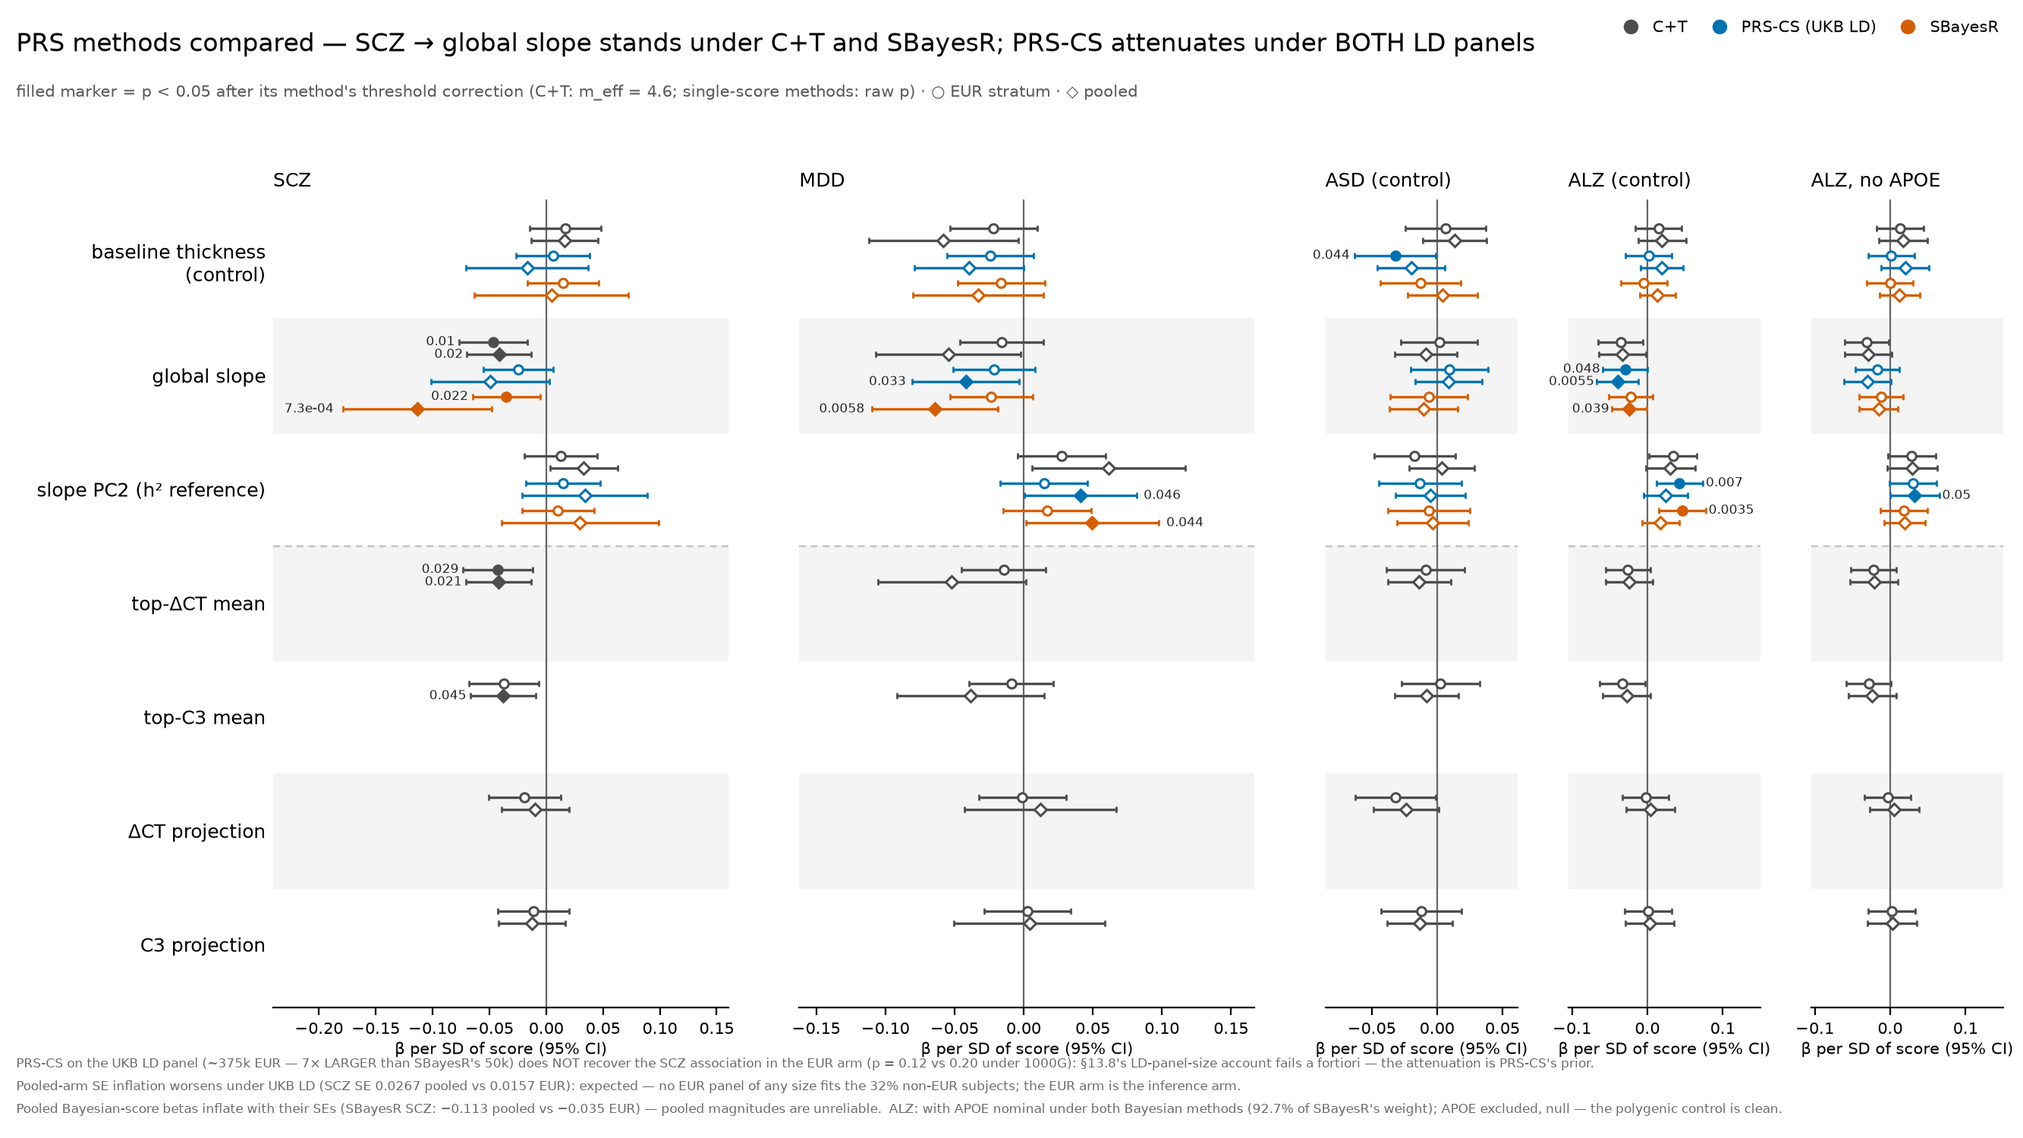
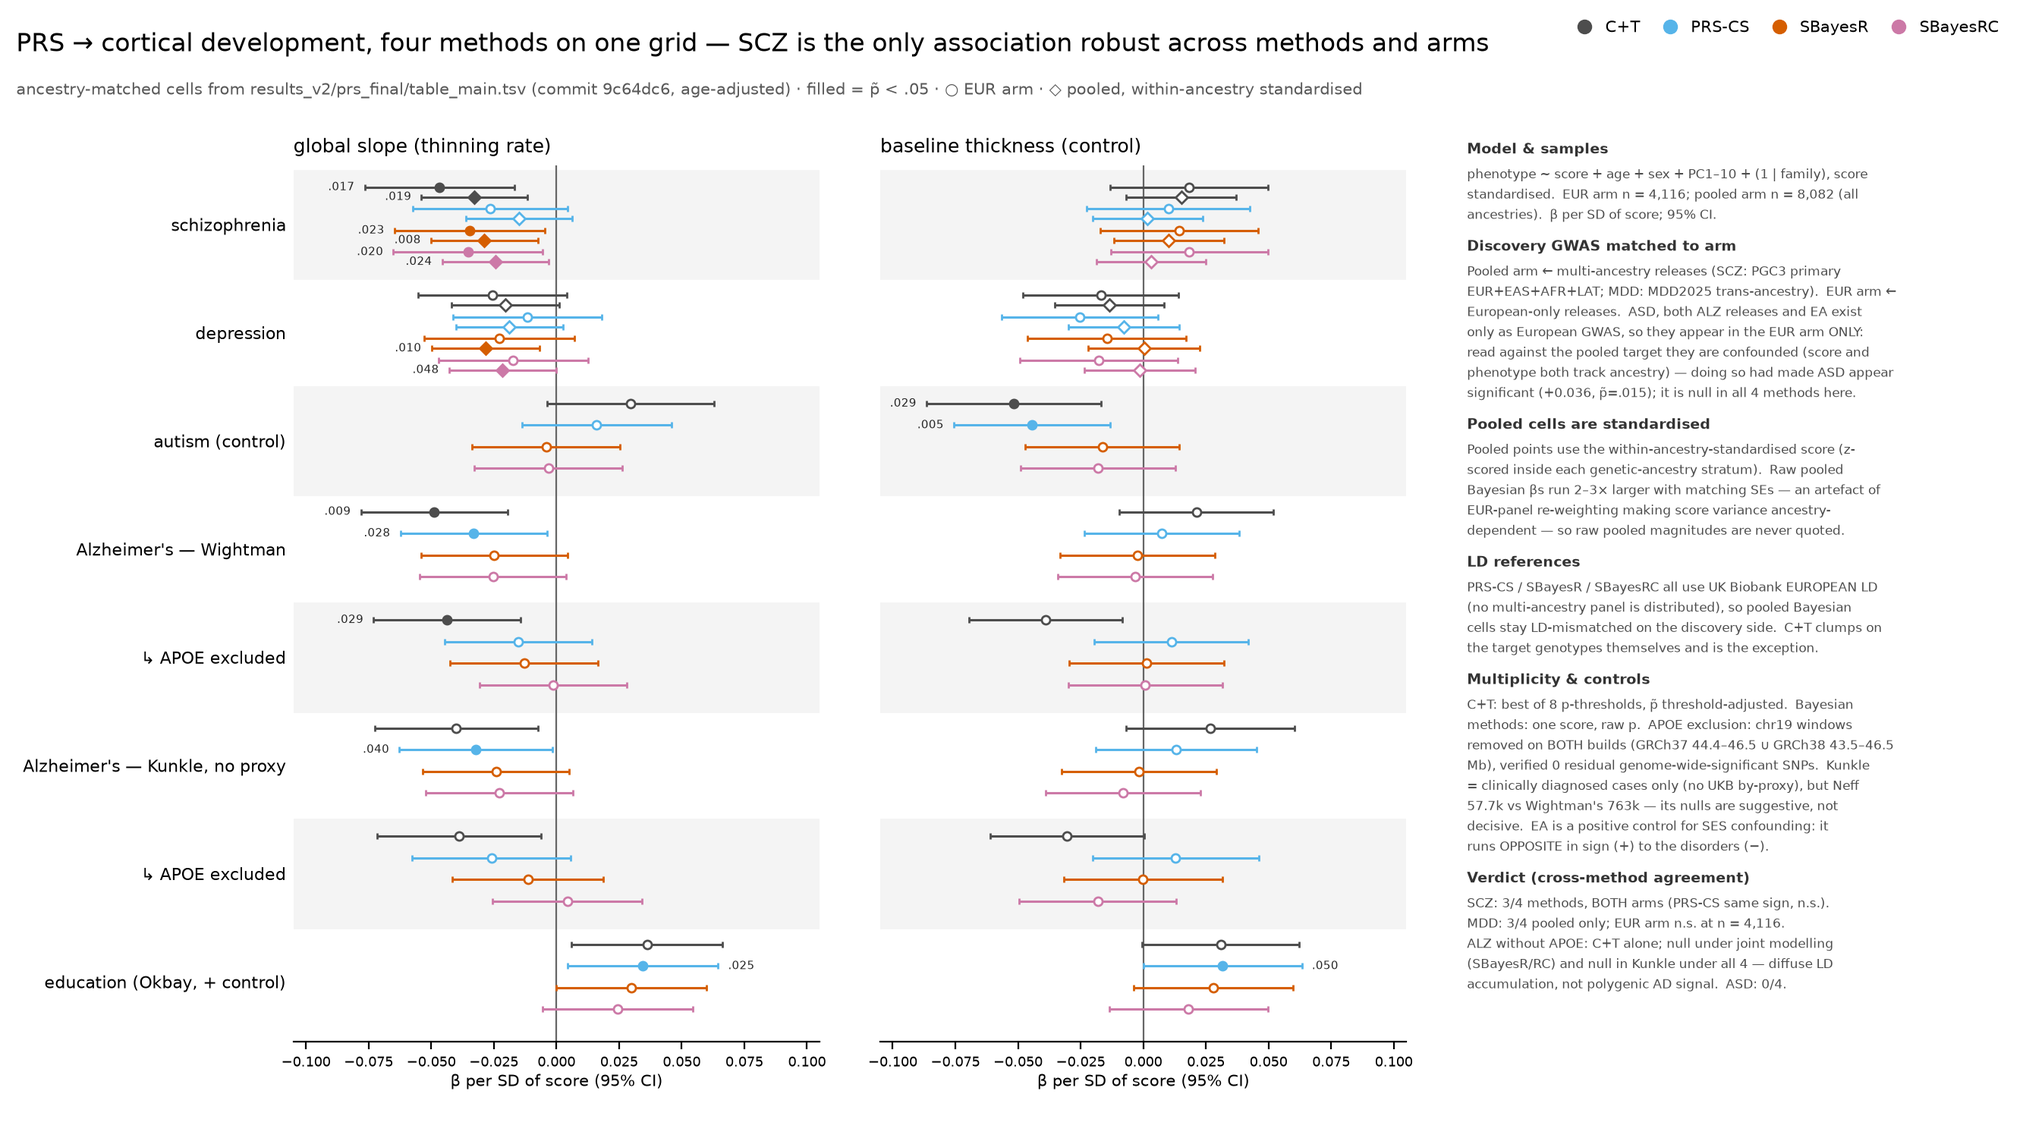
hpc_v3: methods slide rebuilt from the completed prs_final grid
Full rewrite: the previous slide compared methods whose discovery GWAS
differed (the confound ff63dd8 removed) and predates the age fix, the
frequency fix and the matched-stratum rule -- nothing from it should be
quoted. The new slide reads ONLY prs_final/table_main.tsv (9c64dc6, 40/40
cells, age-adjusted).

Layout per user request: GWAS traits as facet rows (SCZ, MDD, ASD, ALZ
Wightman +/- APOE, ALZ Kunkle +/- APOE, EA), phenotypes as columns (global
slope, baseline thickness; the four Experiment A phenotypes dropped for now),
and a reading-guide column replacing footnotes: model spec, the
discovery-to-arm matching rule and why EUR-only controls never appear in the
pooled arm (the ASD false positive), why pooled cells are within-ancestry
standardised (raw pooled Bayesian betas inflate 2-3x), the shared UKB-EUR LD
reference caveat, multiplicity conventions, the two-build APOE exclusion,
Kunkle's power asymmetry, EA's opposite sign, and the cross-method-agreement
verdict.

Cell selection is the honest subset: matched cells only; pooled = zanc score
only. SCZ and MDD carry both arms (circle EUR, diamond pooled-standardised);
EUR-only traits carry the EUR arm alone.

diff --git a/hpc_v3/slide_prs_methods.py b/hpc_v3/slide_prs_methods.py
@@ -1,28 +1,22 @@
-"""Slide: the three PRS methods (C+T, PRS-CS, SBayesR) side by side.
+"""Slide: the four-method PRS grid (C+T, PRS-CS, SBayesR, SBayesRC).
 
 Usage (repo root):  python hpc_v3/slide_prs_methods.py
 
-Context (hpc_v2/README_HPC.md §13.5 → §13.8): §13.5 concluded the SCZ →
-global_slope association "does not survive a method without threshold
-selection" from PRS-CS alone; SBayesR — a second untuned method, with a
-50,000-individual LD reference against PRS-CS's 503 — reverses that reading.
-This slide puts the three methods on one axis for every phenotype each has
-been scored on, POOLED stratum (the only stratum the SBayesR record covers).
+Reads ONLY hpc_v2/work/results_v2/prs_final/table_main.tsv -- the canonical
+grid built by collect_final.py (commit 9c64dc6: 40 cells complete, age
+covariate restored, discovery GWAS matched to target arm).  Layout: GWAS
+traits as facet rows, phenotypes as columns, a reading-guide column on the
+right carrying the caveats a reader seeing only this slide needs.
 
-Sources (all committed):
-  C+T      hpc_v3/prs_tables/prs_association_v3.tsv  (p<0.5 score; imputed;
-           p̃ = p x m_eff, m_eff = 4.6, as on slide_results_v3)
-  PRS-CS   hpc_v2/work/results_v2/prscs/prs_association_<DIS>_prscs.tsv
-           (threshold "auto"; single score, no correction needed)
-  SBayesR  hpc_v3/prs_tables/prs_sbayesr_readme.tsv — transcribed from
-           hpc_v2/README_HPC.md §13.8 (the association tables live on CSD3
-           and are not yet committed).  SEs are RECONSTRUCTED from beta and p
-           via the normal quantile, se = |beta| / Phi^-1(1 - p/2) — exact for
-           a Wald z test, so intervals are faithful to the reported p.
+Cell selection (the honest subset, per README 14.8):
+  * matched cells only -- EUR-only discovery GWAS are never read against the
+    pooled target (that mismatch produced the ASD false positive);
+  * pooled cells are shown WITHIN-ANCESTRY STANDARDISED (score='zanc') --
+    raw pooled Bayesian betas inflate 2-3x with their SEs because EUR-panel
+    re-weighting makes score variance ancestry-dependent.
 
-The four Experiment A phenotypes exist under C+T only — PRS-CS and SBayesR
-have not been scored against them (single-score files exist on CSD3; a
-one-line assoc job would fill them).
+Superseded versions of this slide (pre-ff63dd8) compared methods whose
+discovery GWAS differed; nothing from them should be quoted.
 
 Output: hpc_v3/slide_prs_methods.png  (13.333 x 7.5 in, dpi 200)
 """
@@ -33,189 +27,184 @@ from pathlib import Path
 
 import matplotlib as mpl
 import matplotlib.pyplot as plt
-import numpy as np
 import pandas as pd
-from scipy.stats import norm
 
 HERE = Path(__file__).resolve().parent
 REPO = HERE.parent
+TABLE = REPO / "hpc_v2/work/results_v2/prs_final/table_main.tsv"
 
 BASE, MID, SMALL = 10.5, 9.0, 7.5
-M_EFF = 4.6
 
-PHENOS = ["baseline_thickness", "global_slope", "slope_PC2",
-          "slope_topDelta", "slope_topC3", "slope_projDelta", "slope_projC3"]
-YLAB = ["baseline thickness\n(control)", "global slope",
-        "slope PC2 (h² reference)", "top-ΔCT mean", "top-C3 mean",
-        "ΔCT projection", "C3 projection"]
-N_SETTLED_ROWS = 3          # rule between settled phenotypes and Experiment A
+PHENOS = ["global_slope", "baseline_thickness"]
+PHENO_TITLE = {"global_slope": "global slope (thinning rate)",
+               "baseline_thickness": "baseline thickness (control)"}
 
-#: the 1000G PRS-CS run stays in results_v2/prscs/ for the record but is not
-#: drawn -- the UKB-LD re-run supersedes it (user decision 2026-09-09; the
-#: 1000G-vs-UKB contrast lives in the footnote and README §13.8 discussion)
-METHODS = ["ct", "prscs_ukbb", "sbayesr"]
-METHOD_LABEL = {"ct": "C+T", "prscs_ukbb": "PRS-CS (UKB LD)",
-                "sbayesr": "SBayesR"}
-METHOD_COLOR = {"ct": "0.30", "prscs_ukbb": "#0072B2", "sbayesr": "#D55E00"}
-DODGE = {"ct": 0.24, "prscs_ukbb": 0.0, "sbayesr": -0.24}
-#: the UKB-LD re-run (hpc_v2 commit 8fe2312's prscs_ukbb.sbatch) -- drawn
-#: automatically once its association tables are pulled from CSD3
-UKBB_DIR = "hpc_v2/work/results_v2/prscs_ukbb"
+#: facet rows, top to bottom: hypothesis traits, then controls
+BANDS = [
+    ("SCZ", "schizophrenia", ("SCZ_eur", "SCZ_pooled")),
+    ("MDD", "depression", ("MDD_eur", "MDD_pooled")),
+    ("ASD", "autism (control)", ("ASD",)),
+    ("ALZ", "Alzheimer's — Wightman", ("ALZ",)),
+    ("ALZ_noAPOE", "  ↳ APOE excluded", ("ALZ_noAPOE",)),
+    ("ALZ_IGAP", "Alzheimer's — Kunkle, no proxy", ("ALZ_IGAP",)),
+    ("ALZ_IGAP_noAPOE", "  ↳ APOE excluded", ("ALZ_IGAP_noAPOE",)),
+    ("EA", "education (Okbay, + control)", ("EA",)),
+]
 
-
-def load() -> pd.DataFrame:
-    rows = []
-    ct = pd.read_csv(REPO / "hpc_v3/prs_tables/prs_association_v3.tsv",
-                     sep="\t")
-    ct = ct[ct.threshold == "0p5"]
-    for _, r in ct.iterrows():
-        rows.append(dict(method="ct", disorder=r.disorder, stratum=r.stratum,
-                         phenotype=r.phenotype, beta=r.beta, se=r.se,
-                         p=r.p, p_corr=min(1.0, r.p * M_EFF), n=r.n))
-    # UKB-LD PRS-CS; note the cluster's filename inconsistency for ALZnoAPOE,
-    # whose file also tags the disorder column 'ALZnoAPOEukbb'
-    ukbb_files = {"SCZ": "prs_association_SCZ_prscs_ukbb.tsv",
-                  "MDD": "prs_association_MDD_prscs_ukbb.tsv",
-                  "ASD": "prs_association_ASD_prscs_ukbb.tsv",
-                  "ALZ": "prs_association_ALZ_prscs_ukbb.tsv",
-                  "ALZnoAPOE": "prs_association_ALZnoAPOE_ukbb.tsv"}
-    for dis, fname in ukbb_files.items():
-        f = REPO / UKBB_DIR / fname
-        if not f.exists():
-            continue
-        cs = pd.read_csv(f, sep="\t")
-        for _, r in cs.iterrows():
-            rows.append(dict(method="prscs_ukbb", disorder=dis,
-                             stratum=r.stratum, phenotype=r.phenotype,
-                             beta=r.beta, se=r.se, p=r.p, p_corr=r.p, n=r.n))
-    # SBayesR: the real association tables (committed 2026-09-09), which
-    # retired the prs_sbayesr_readme.tsv transcription -- values verified
-    # identical where they overlapped
-    sb_files = {"SCZ": "prs_association_SCZ_sbayesr.tsv",
-                "MDD": "prs_association_MDD_sbayesr.tsv",
-                "ASD": "prs_association_ASD_sbayesr.tsv",
-                "ALZ": "prs_association_ALZ_sbayesr.tsv",
-                "ALZnoAPOE": "prs_association_ALZnoAPOE_sbayesr.tsv"}
-    for dis, fname in sb_files.items():
-        f = REPO / "hpc_v2/work/results_v2/sbayesr" / fname
-        if not f.exists():
-            continue
-        sb = pd.read_csv(f, sep="\t")
-        for _, r in sb.iterrows():
-            rows.append(dict(method="sbayesr", disorder=dis,
-                             stratum=r.stratum, phenotype=r.phenotype,
-                             beta=r.beta, se=r.se, p=r.p, p_corr=r.p, n=r.n))
-    return pd.DataFrame(rows)
+# Okabe-Ito, one hue per method (grey = the non-Bayesian baseline)
+METHOD_ORDER = ["CT", "PRSCS", "SBayesR", "SBayesRC"]
+METHOD_LABEL = {"CT": "C+T", "PRSCS": "PRS-CS", "SBayesR": "SBayesR",
+                "SBayesRC": "SBayesRC"}
+METHOD_COLOR = {"CT": "0.30", "PRSCS": "#56B4E9", "SBayesR": "#D55E00",
+                "SBayesRC": "#CC79A7"}
+DODGE = {"CT": 0.30, "PRSCS": 0.10, "SBayesR": -0.10, "SBayesRC": -0.30}
+ARM_MARKER = {"EUR": "o", "pooled": "D"}
+ARM_DODGE = {"EUR": 0.045, "pooled": -0.045}
 
 
 def _fmt_p(p: float) -> str:
-    return f"{p:.1e}" if p < 1e-3 else f"{p:.2g}"
+    return f"{p:.0e}".replace("e-0", "e-") if p < 1e-3 else f"{p:.3f}"[1:]
 
 
-STRATUM_MARKER = {"EUR": "o", "full": "D"}    # matches slide_results_v3
-STRATUM_DODGE = {"EUR": 0.055, "full": -0.055}
+def load() -> pd.DataFrame:
+    t = pd.read_csv(TABLE, sep="\t")
+    t = t[t.phenotype.isin(PHENOS) & (t.matched == "yes")]
+    # pooled arm: standardized score only; EUR arm: raw
+    keep = ((t.target_stratum == "EUR") & (t.score == "raw")) | \
+           ((t.target_stratum == "full") & (t.score == "zanc"))
+    t = t[keep].copy()
+    t["arm"] = t.target_stratum.map({"EUR": "EUR", "full": "pooled"})
+    band_of = {ta: name for name, _, tas in BANDS for ta in tas}
+    t["band"] = t.trait_arm.map(band_of)
+    assert t.band.notna().all(), sorted(t[t.band.isna()].trait_arm.unique())
+    # one row per cell (C+T rows are already the selected best threshold)
+    dup = t.duplicated(["band", "arm", "method", "phenotype"], keep=False)
+    assert not dup.any(), t[dup][["trait_arm", "method", "threshold"]]
+    return t
 
 
-def panel(fig, rect, df, phenos, ylabels, title, show_ylab, xlim=None):
+def panel(fig, rect, d, title, show_ylab):
     ax = fig.add_axes(rect)
-    n = len(phenos)
-    for _, r in df.iterrows():
-        if r.phenotype not in phenos:
-            continue
-        y = (n - 1 - phenos.index(r.phenotype)) + DODGE[r.method] \
-            + STRATUM_DODGE[r.stratum]
+    n = len(BANDS)
+    for _, r in d.iterrows():
+        bi = [b[0] for b in BANDS].index(r.band)
+        y = (n - 1 - bi) + DODGE[r.method] + ARM_DODGE[r.arm]
         c = METHOD_COLOR[r.method]
+        sig = r.p_adj < 0.05
         ax.errorbar(r.beta, y, xerr=1.96 * r.se, fmt="none", ecolor=c,
-                    elinewidth=1.2, capsize=1.5, zorder=2)
-        ax.plot(r.beta, y, STRATUM_MARKER[r.stratum], ms=4.2,
-                mfc=c if r.p_corr < 0.05 else "white",
-                mec=c, mew=1.1, zorder=3)
-        if r.p_corr < 0.05:
+                    elinewidth=1.1, capsize=1.5, zorder=2)
+        ax.plot(r.beta, y, ARM_MARKER[r.arm], ms=4.0,
+                mfc=c if sig else "white", mec=c, mew=1.0, zorder=3)
+        if sig:
             sgn = 1 if r.beta >= 0 else -1
-            ax.text(r.beta + sgn * r.se * 1.96 * 1.12, y, _fmt_p(r.p_corr),
-                    fontsize=SMALL - 1.5, ha="left" if sgn > 0 else "right",
+            ax.text(r.beta + sgn * (1.96 * r.se + 0.004), y, _fmt_p(r.p_adj),
+                    fontsize=SMALL - 2, ha="left" if sgn > 0 else "right",
                     va="center", color="0.15", zorder=4)
+    ax.set_ylim(-0.55, n - 0.45)
     for i in range(n):
         if i % 2 == 1:
             ax.axhspan(i - 0.5, i + 0.5, color="0.955", zorder=0)
-    if n > N_SETTLED_ROWS and phenos is PHENOS:
-        ax.axhline(n - N_SETTLED_ROWS - 0.5, color="0.75", lw=0.8,
-                   ls=(0, (4, 3)), zorder=1)
     ax.axvline(0, color="0.4", lw=0.8, zorder=1)
-    ax.set_ylim(-0.55, n - 0.45)
+    ax.set_xlim(-0.105, 0.105)
     ax.set_yticks(range(n))
-    ax.set_yticklabels(ylabels[::-1] if show_ylab else [],
-                       fontsize=MID if show_ylab else 0)
-    ax.set_xlabel("β per SD of score (95% CI)", fontsize=SMALL, labelpad=2)
-    ax.set_title(title, pad=6)
-    ax.tick_params(axis="y", length=0)
-    ax.spines[["top", "right", "left"]].set_visible(False)
-    if xlim:
-        ax.set_xlim(*xlim)
+    if show_ylab:
+        ax.set_yticklabels([b[1] for b in BANDS[::-1]], fontsize=SMALL + 0.5)
     else:
-        ax.margins(x=0.22)
+        ax.set_yticklabels([])
+    ax.set_xlabel("β per SD of score (95% CI)", fontsize=SMALL, labelpad=2)
+    ax.set_title(title, fontsize=MID, loc="left")
+    ax.tick_params(axis="y", length=0)
+    ax.tick_params(axis="x", labelsize=SMALL - 1)
+    ax.spines[["top", "right", "left"]].set_visible(False)
     return ax
 
 
+NOTES = [
+    ("Model & samples", [
+        "phenotype ~ score + age + sex + PC1–10 + (1 | family), score",
+        "standardised.  EUR arm n = 4,116; pooled arm n = 8,082 (all",
+        "ancestries).  β per SD of score; 95% CI.",
+    ]),
+    ("Discovery GWAS matched to arm", [
+        "Pooled arm ← multi-ancestry releases (SCZ: PGC3 primary",
+        "EUR+EAS+AFR+LAT; MDD: MDD2025 trans-ancestry).  EUR arm ←",
+        "European-only releases.  ASD, both ALZ releases and EA exist",
+        "only as European GWAS, so they appear in the EUR arm ONLY:",
+        "read against the pooled target they are confounded (score and",
+        "phenotype both track ancestry) — doing so had made ASD appear",
+        "significant (+0.036, p̃=.015); it is null in all 4 methods here.",
+    ]),
+    ("Pooled cells are standardised", [
+        "Pooled points use the within-ancestry-standardised score (z-",
+        "scored inside each genetic-ancestry stratum).  Raw pooled",
+        "Bayesian βs run 2–3× larger with matching SEs — an artefact of",
+        "EUR-panel re-weighting making score variance ancestry-",
+        "dependent — so raw pooled magnitudes are never quoted.",
+    ]),
+    ("LD references", [
+        "PRS-CS / SBayesR / SBayesRC all use UK Biobank EUROPEAN LD",
+        "(no multi-ancestry panel is distributed), so pooled Bayesian",
+        "cells stay LD-mismatched on the discovery side.  C+T clumps on",
+        "the target genotypes themselves and is the exception.",
+    ]),
+    ("Multiplicity & controls", [
+        "C+T: best of 8 p-thresholds, p̃ threshold-adjusted.  Bayesian",
+        "methods: one score, raw p.  APOE exclusion: chr19 windows",
+        "removed on BOTH builds (GRCh37 44.4–46.5 ∪ GRCh38 43.5–46.5",
+        "Mb), verified 0 residual genome-wide-significant SNPs.  Kunkle",
+        "= clinically diagnosed cases only (no UKB by-proxy), but Neff",
+        "57.7k vs Wightman's 763k — its nulls are suggestive, not",
+        "decisive.  EA is a positive control for SES confounding: it",
+        "runs OPPOSITE in sign (+) to the disorders (−).",
+    ]),
+    ("Verdict (cross-method agreement)", [
+        "SCZ: 3/4 methods, BOTH arms (PRS-CS same sign, n.s.).",
+        "MDD: 3/4 pooled only; EUR arm n.s. at n = 4,116.",
+        "ALZ without APOE: C+T alone; null under joint modelling",
+        "(SBayesR/RC) and null in Kunkle under all 4 — diffuse LD",
+        "accumulation, not polygenic AD signal.  ASD: 0/4.",
+    ]),
+]
+
+
 def draw() -> Path:
-    df = load()
+    d = load()
     mpl.rcParams.update({
-        "font.size": BASE, "axes.titlesize": MID, "axes.labelsize": SMALL,
-        "legend.fontsize": SMALL, "xtick.labelsize": SMALL,
-        "ytick.labelsize": MID, "axes.titlelocation": "left",
-        "figure.facecolor": "white", "savefig.facecolor": "white"})
+        "font.size": BASE, "axes.titlesize": MID,
+        "figure.facecolor": "white", "savefig.facecolor": "white",
+    })
     fig = plt.figure(figsize=(13.333, 7.5))
-    fig.text(0.008, 0.955, "PRS methods compared — SCZ → global slope stands "
-             "under C+T and SBayesR; PRS-CS attenuates under BOTH LD panels",
-             fontsize=BASE + 1.5)
-    fig.text(0.008, 0.915, "filled marker = p < 0.05 after its method's "
-             "threshold correction (C+T: m_eff = 4.6; single-score methods: "
-             "raw p) · ○ EUR stratum · ◇ pooled", fontsize=SMALL,
-             color="0.35")
+    fig.text(0.008, 0.955, "PRS → cortical development, four methods on one "
+             "grid — SCZ is the only association robust across methods and "
+             "arms", fontsize=BASE + 1.5)
+    fig.text(0.008, 0.917, "ancestry-matched cells from "
+             "results_v2/prs_final/table_main.tsv (commit 9c64dc6, "
+             "age-adjusted) · filled = p̃ < .05 · ○ EUR arm · ◇ pooled, "
+             "within-ancestry standardised", fontsize=SMALL, color="0.35")
 
-    panel(fig, [0.135, 0.115, 0.225, 0.71], df[df.disorder == "SCZ"],
-          PHENOS, YLAB, "SCZ", True)
-    panel(fig, [0.395, 0.115, 0.225, 0.71], df[df.disorder == "MDD"],
-          PHENOS, YLAB, "MDD", False)
-    # controls share the same 7-row grid so rows align across all panels;
-    # points exist only where the disorder was scored on that phenotype.
-    # ALZ appears twice: with APOE (nominally significant, ~one locus) and
-    # with APOE excluded (null) -- the specificity question is the contrast.
-    panel(fig, [0.655, 0.115, 0.095, 0.71], df[df.disorder == "ASD"],
-          PHENOS, YLAB, "ASD (control)", False)
-    panel(fig, [0.775, 0.115, 0.095, 0.71], df[df.disorder == "ALZ"],
-          PHENOS, YLAB, "ALZ (control)", False, xlim=(-0.105, 0.15))
-    panel(fig, [0.895, 0.115, 0.095, 0.71], df[df.disorder == "ALZnoAPOE"],
-          PHENOS, YLAB, "ALZ, no APOE", False, xlim=(-0.105, 0.15))
+    panel(fig, [0.145, 0.085, 0.26, 0.77], d[d.phenotype == "global_slope"],
+          PHENO_TITLE["global_slope"], show_ylab=True)
+    panel(fig, [0.435, 0.085, 0.26, 0.77],
+          d[d.phenotype == "baseline_thickness"],
+          PHENO_TITLE["baseline_thickness"], show_ylab=False)
 
-    present = [m for m in METHODS if (df.method == m).any()]
     handles = [mpl.lines.Line2D([], [], color=METHOD_COLOR[m], marker="o",
                                 ls="", mfc=METHOD_COLOR[m],
-                                label=METHOD_LABEL[m]) for m in present]
+                                label=METHOD_LABEL[m]) for m in METHOD_ORDER]
     fig.legend(handles=handles, loc="upper right",
-               bbox_to_anchor=(0.995, 0.995), ncol=3, frameon=False,
-               fontsize=SMALL, handletextpad=0.4, columnspacing=1.0)
+               bbox_to_anchor=(0.995, 0.995), ncol=4, frameon=False,
+               fontsize=SMALL, handletextpad=0.3, columnspacing=0.9)
 
-    fig.text(0.008, 0.062,
-             "PRS-CS on the UKB LD panel (~375k EUR — 7× LARGER than "
-             "SBayesR's 50k) does NOT recover the SCZ association in the "
-             "EUR arm (p = 0.12 vs 0.20 under 1000G): §13.8's "
-             "LD-panel-size account fails a fortiori — the attenuation is "
-             "PRS-CS's prior.",
-             fontsize=SMALL - 1.5, color="0.42")
-    fig.text(0.008, 0.042,
-             "Pooled-arm SE inflation worsens under UKB LD (SCZ SE 0.0267 "
-             "pooled vs 0.0157 EUR): expected — no EUR panel of any size "
-             "fits the 32% non-EUR subjects; the EUR arm is the inference "
-             "arm.",
-             fontsize=SMALL - 1.5, color="0.42")
-    fig.text(0.008, 0.022,
-             "Pooled Bayesian-score betas inflate with their SEs (SBayesR "
-             "SCZ: −0.113 pooled vs −0.035 EUR) — pooled magnitudes are "
-             "unreliable.  ALZ: with APOE nominal under both Bayesian "
-             "methods (92.7% of SBayesR's weight); APOE excluded, null — "
-             "the polygenic control is clean.",
-             fontsize=SMALL - 1.5, color="0.42")
+    # reading-guide column
+    x0, y = 0.725, 0.875
+    for head, lines in NOTES:
+        fig.text(x0, y, head, fontsize=SMALL - 0.5, fontweight="bold",
+                 color="0.20", va="top")
+        y -= 0.023
+        for ln in lines:
+            fig.text(x0, y, ln, fontsize=SMALL - 1.5, color="0.30", va="top")
+            y -= 0.0178
+        y -= 0.009
 
     out = HERE / "slide_prs_methods.png"
     fig.savefig(out, dpi=200)
